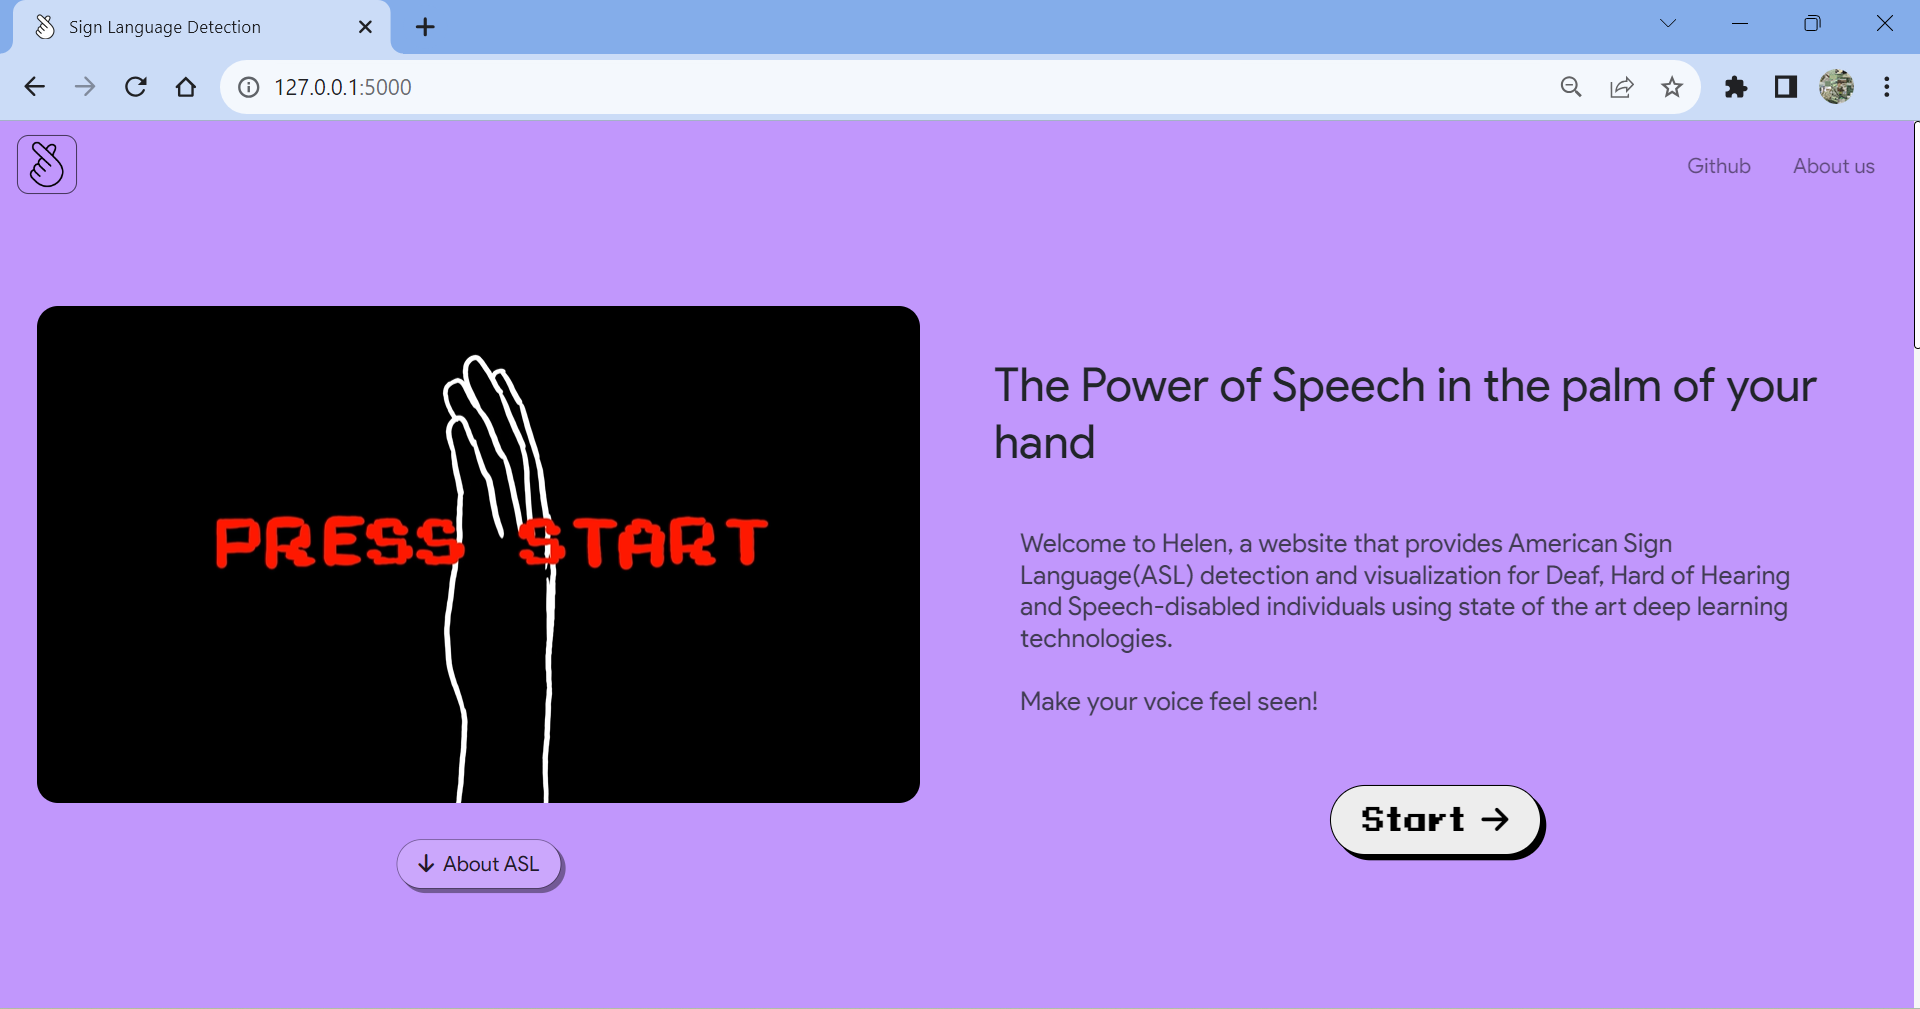
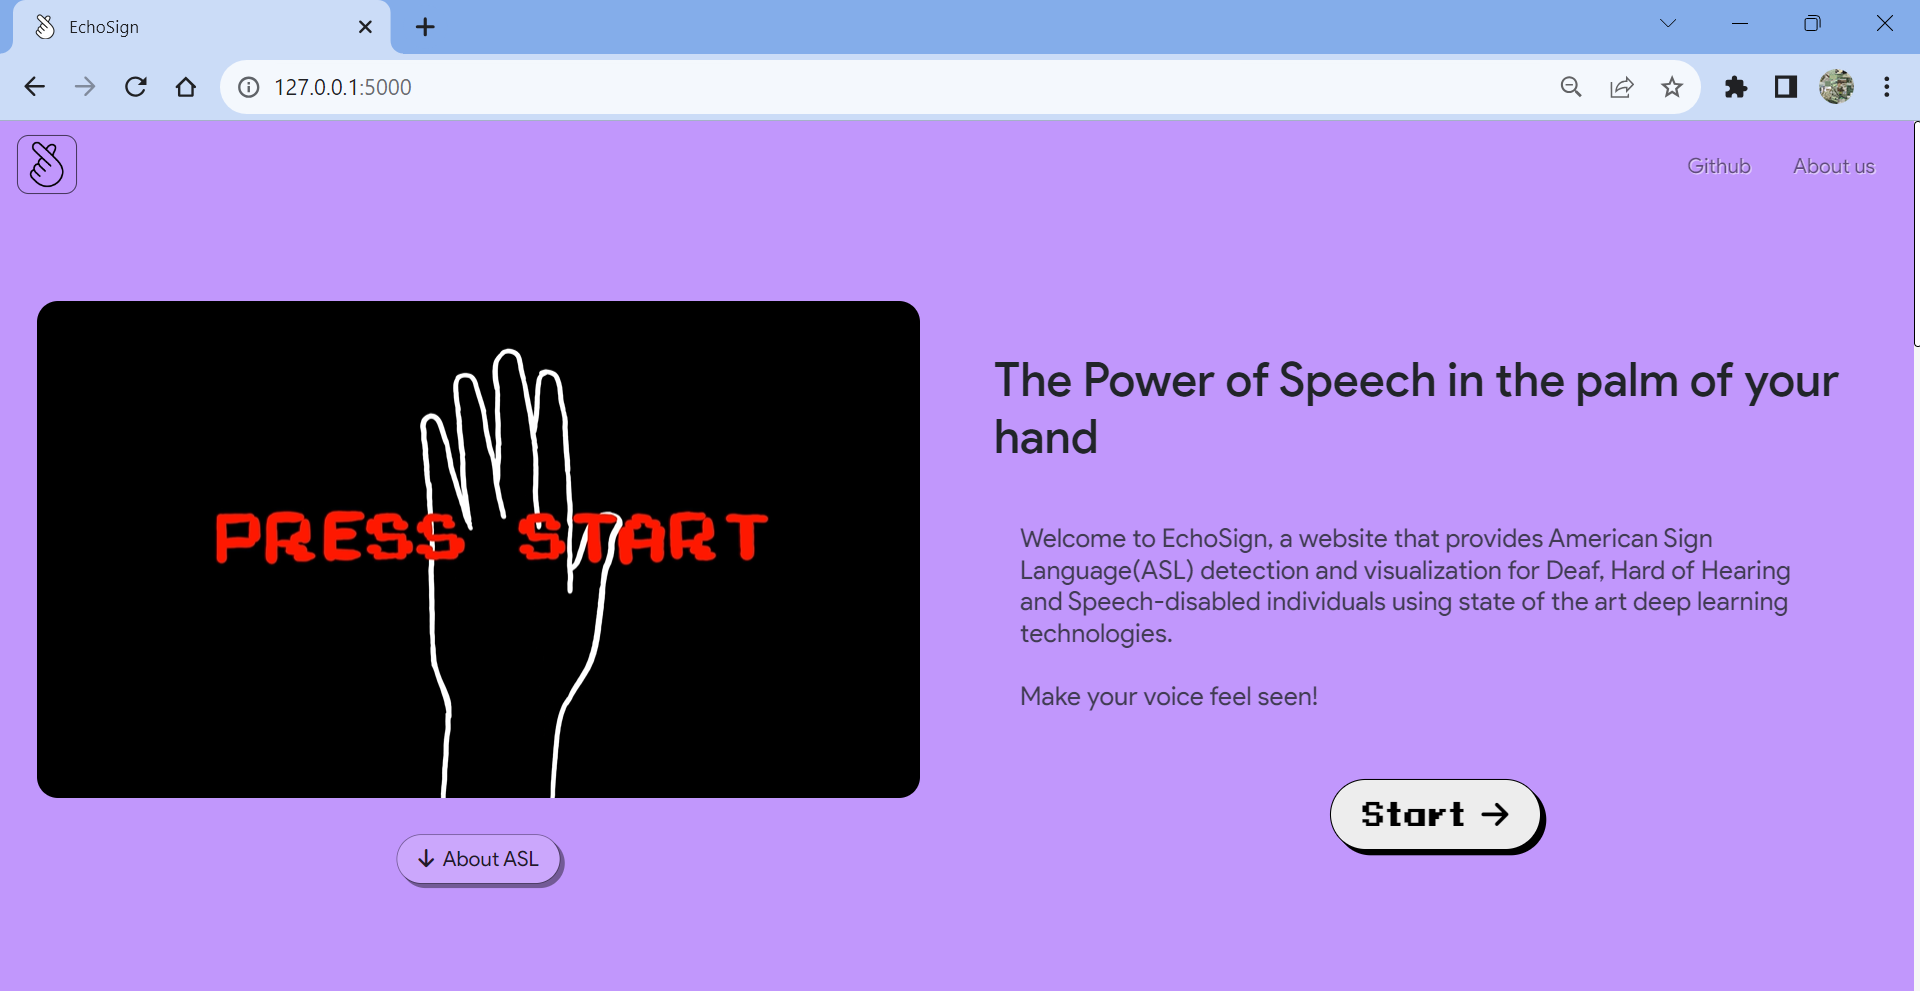
Update screenshots

diff --git a/templates/landing.html b/templates/landing.html
@@ -59,7 +59,7 @@
                             <div class="tagline">
                                 <h1>The Power of Speech in the palm of your hand</h1>
                                 <h5>
-                                    Welcome to Helen, a website that provides American Sign Language(ASL) detection and visualization for Deaf, Hard of Hearing and Speech-disabled individuals using state of the art deep learning technologies.
+                                    Welcome to EchoSign, a website that provides American Sign Language(ASL) detection and visualization for Deaf, Hard of Hearing and Speech-disabled individuals using state of the art deep learning technologies.
                                     <br>
                                     <br>
                                     Make your voice feel seen!

diff --git a/README.md b/README.md
@@ -49,6 +49,7 @@ python3 app.py
 ![About US](screenshots/9.About_us.png)
 ![Our Vision](screenshots/10.Vision.png)
 ![Our Team](screenshots/11.Team.png)
+![Links and references](screenshots/12.Links_Ref.png)
 
 ## Features <img src="static\asl-interpreter-services.png" alt="(asl-support-inclusive)" width="30" height="30">
 
